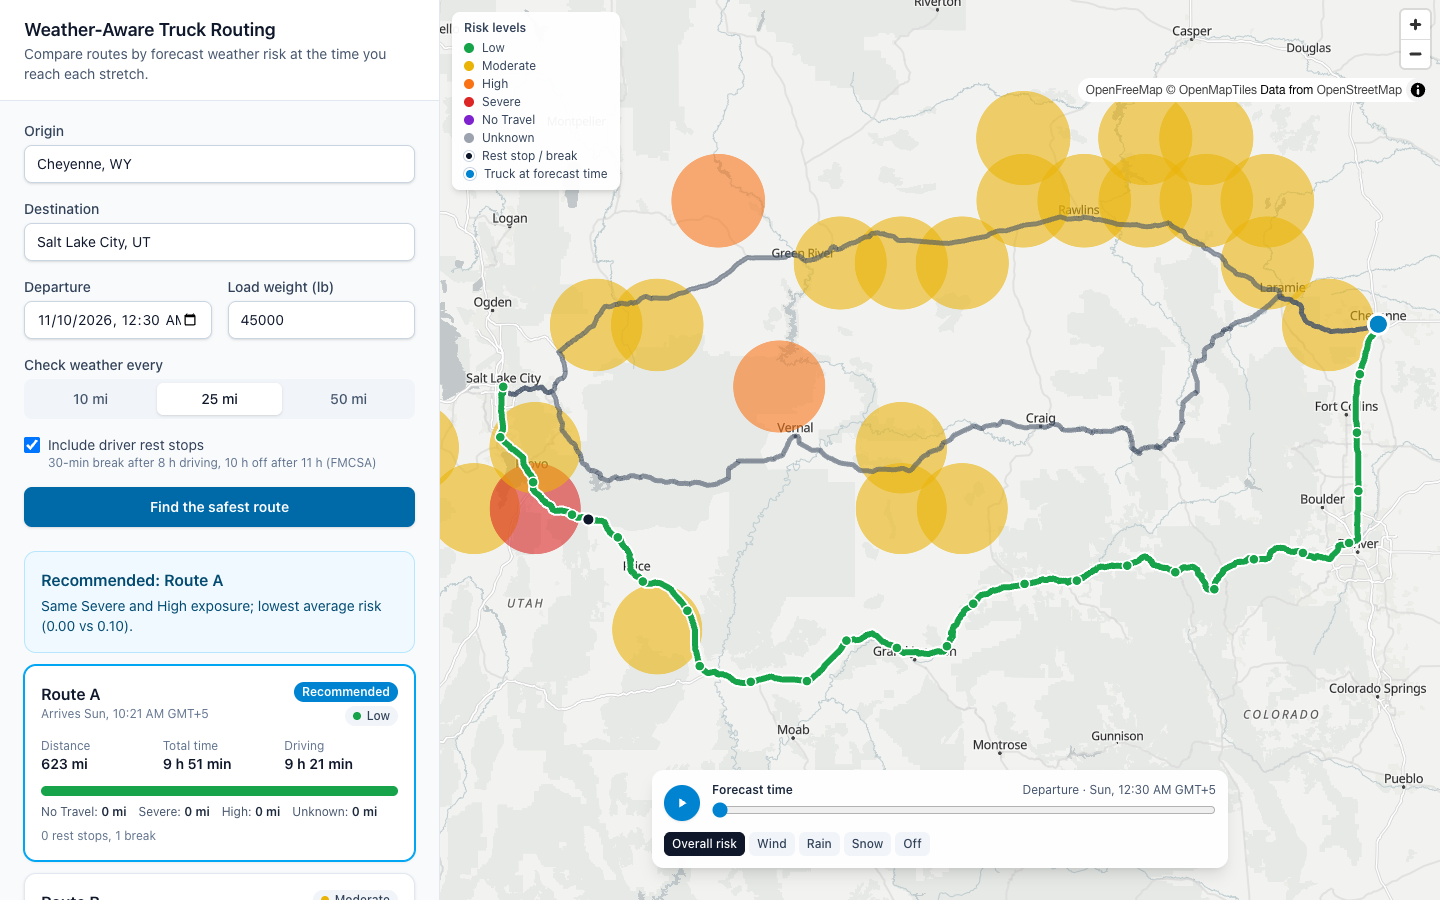
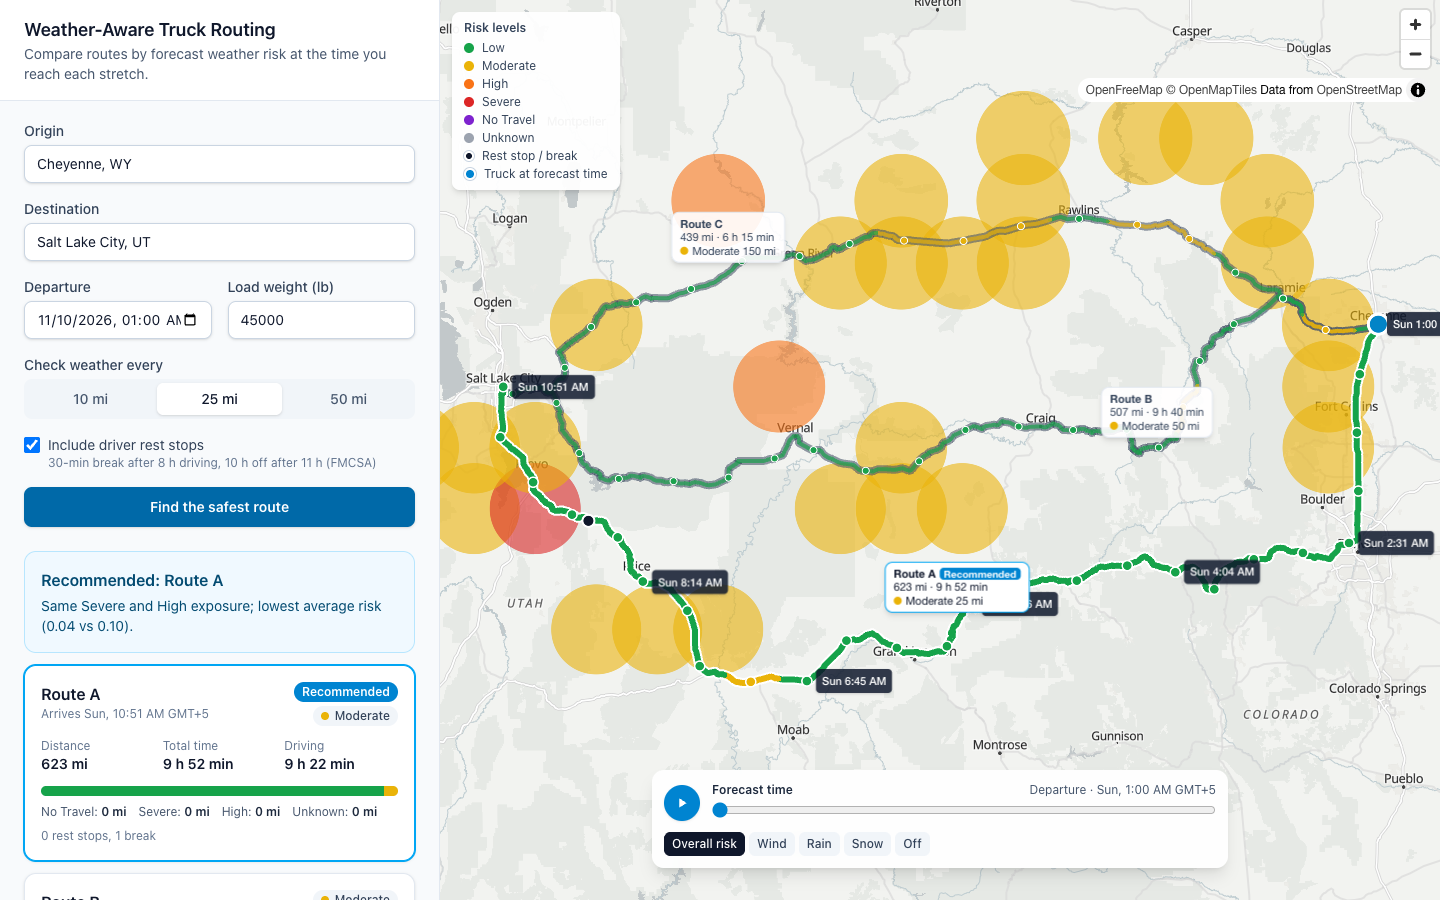
docs: refresh the README screenshot with on-map route labels

diff --git a/README.md b/README.md
@@ -10,10 +10,10 @@ A React + Django web app that helps a truck driver choose the **safest route** b
 
 ![Cheyenne to Salt Lake City: the shorter I-80 routes cross Moderate weather, so the app recommends an all-Low route](docs/images/app.png)
 
-_Cheyenne → Salt Lake City with a 45,000 lb load. The I-80 routes cross Moderate-risk weather,
-so a longer route that stays Low the whole way is recommended. The Severe cell near Provo is the
-forecast at departure; the truck only reaches that stretch about 9 hours later, when its forecast
-is clear._
+_Cheyenne → Salt Lake City with a 45,000 lb load. Each route is labelled with its distance, time
+and risk miles. The I-80 routes (B and C) cross more Moderate-risk weather, so Route A is
+recommended. The red Severe cell near Provo is the forecast at departure; the truck only reaches
+that stretch about 9 hours later, when its forecast is clear._
 
 ---
 
